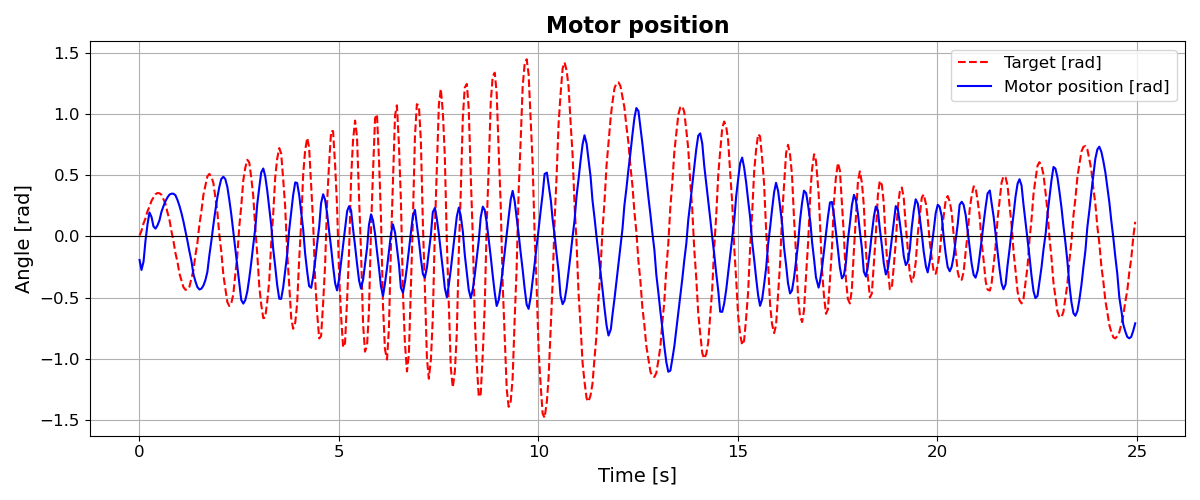
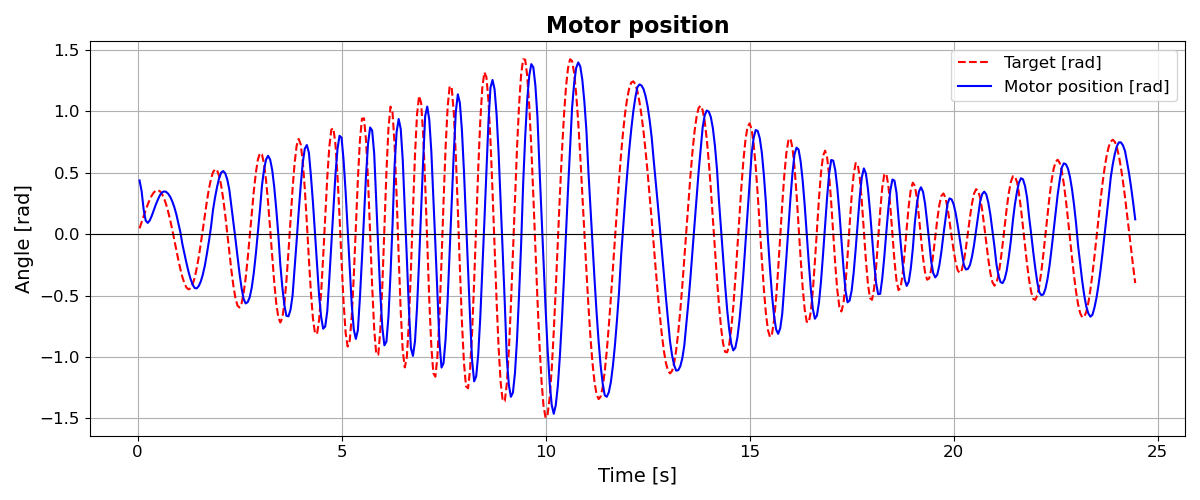
motor position fix and current sensos

diff --git a/src/net/dataset.py b/src/net/dataset.py
@@ -5,6 +5,7 @@ import torch
 from torch.utils.data import Dataset
 from pathlib import Path
 
+# WINDOW: quanti timestep di storia diamo alla GRU
 # a 20Hz, 30 timestep = 1.5 secondi
 WINDOW    = 30
 SAMPLE_HZ = 20.0
@@ -12,9 +13,11 @@ SAMPLE_HZ = 20.0
 
 class FishDataset(Dataset):
     def __init__(self, log_dir: str, window: int = WINDOW):
-        self.sequences = []   # (window, 1)  storia comandi motore
-        self.targets   = []   # (3,)         [sensor_diff, sensor_mean, v_flow]
+        self.sequences = []
+        self.targets   = []
+        self.labels    = []
 
+        # statistiche di normalizzazione (salvate nel checkpoint per runtime)
         self.norm_stats = {}
 
         csv_files = list(Path(log_dir).glob("trial_*.csv"))
@@ -32,80 +35,95 @@ class FishDataset(Dataset):
 
         self.sequences = torch.tensor(np.array(self.sequences), dtype=torch.float32)
         self.targets   = torch.tensor(np.array(self.targets),   dtype=torch.float32)
+        self.labels    = torch.tensor(np.array(self.labels),    dtype=torch.float32)
 
         print(f"Dataset: {len(self)} campioni da {len(csv_files)} trial.")
 
     def _parse_sensor_values(self, series: pd.Series):
+        # converte la colonna sensor_values da stringa "[v1, v2]" a array numpy
         def parse_one(s):
             try:
                 vals = ast.literal_eval(str(s))
-                if len(vals) < 2:
+                if len(vals) < 2:       # lista vuota o incompleta
                     return [0.0, 0.0]
                 return [float(v) for v in vals]
             except Exception:
                 return [0.0, 0.0]
+
         parsed = series.apply(parse_one)
         return np.array(parsed.tolist(), dtype=np.float32)
 
     def _process_episode(self, df: pd.DataFrame, window: int):
-        # input - comando motore
-        cmd = df["tail_target_rad"].values.astype(np.float32)
-
-        # output - sensori
+        # --- sensori ---
         sensors = self._parse_sensor_values(df["sensor_values"])
         sensor_diff = sensors[:, 0] - sensors[:, 1]
-        sensor_mean = (sensors[:, 0] + sensors[:, 1]) / 2.0
+        sensor_mean = (sensors[:, 0] + sensors[:, 1]) / 2.0   
 
-        # calibrazione offset a riposo (primi 50 campioni)
-        offset_diff = sensor_diff[:50].mean()
+        # offset a riposo: media dei primi 50 campioni (come fa master_node)
+        offset = sensor_diff[:50].mean()
+        sensor_diff_cal = sensor_diff - offset
+
+        # offset a riposo anche per la media
         offset_mean = sensor_mean[:50].mean()
-        sensor_diff_cal = sensor_diff - offset_diff
         sensor_mean_cal = sensor_mean - offset_mean
 
-        # v_flow: placeholder a zero finché non c'è il sensore
-        v_flow = np.zeros(len(df), dtype=np.float32)
+        # --- v_flow: usa la corrente del Dynamixel come proxy finché non c'è il sensore di flusso ---
+        # v_flow = np.zeros(len(df), dtype=np.float32)           # placeholder zero
+        # v_flow = df["v_flow"].values.astype(np.float32)        # decommentare quando disponibile
+        v_flow = df["present_current_ma"].values.astype(np.float32)  # proxy: corrente motore
 
-        # normalizzazione per episodio
-        cmd_mean,  cmd_std  = cmd.mean(),             cmd.std()             + 1e-6
-        sd_mean,   sd_std   = sensor_diff_cal.mean(), sensor_diff_cal.std() + 1e-6
-        sm_mean,   sm_std   = sensor_mean_cal.mean(), sensor_mean_cal.std() + 1e-6
-        vf_mean,   vf_std   = v_flow.mean(),          v_flow.std()          + 1e-6
+        # --- ground truth ---
+        cmd_servo = df["tail_target_rad"].values.astype(np.float32)
+        amp_des   = df["tail_amp_rad"].values.astype(np.float32)
+        freq_des  = df["tail_freq_hz"].values.astype(np.float32)
 
-        cmd_n = (cmd             - cmd_mean) / cmd_std
-        sd_n  = (sensor_diff_cal - sd_mean)  / sd_std
-        sm_n  = (sensor_mean_cal - sm_mean)  / sm_std
+        # --- normalizzazione per-episodio ---
+        sd_mean,  sd_std  = sensor_diff_cal.mean(), sensor_diff_cal.std() + 1e-6
+        sm_mean,  sm_std  = sensor_mean_cal.mean(), sensor_mean_cal.std() + 1e-6
+        cmd_mean, cmd_std = cmd_servo.mean(),        cmd_servo.std()       + 1e-6
+        vf_mean,  vf_std  = v_flow.mean(),           v_flow.std()          + 1e-6
+
+        sd_n  = (sensor_diff_cal - sd_mean) / sd_std
+        sm_n  = (sensor_mean_cal - sm_mean) / sm_std
+        cmd_n = (cmd_servo       - cmd_mean) / cmd_std
         vf_n  = (v_flow          - vf_mean)  / vf_std
 
+        # salva le statistiche dell'episodio
         self.norm_stats = {
-            "cmd_mean": float(cmd_mean), "cmd_std": float(cmd_std),
             "sd_mean":  float(sd_mean),  "sd_std":  float(sd_std),
             "sm_mean":  float(sm_mean),  "sm_std":  float(sm_std),
-            "vf_mean":  float(vf_mean),  "vf_std":  float(vf_std),
+            "cmd_mean": float(cmd_mean), "cmd_std": float(cmd_std),
+            "vf_mean":  float(vf_mean),  "vf_std":  float(vf_std),  # proxy: corrente motore
         }
 
-        # finestre scorrevoli
+        # --- finestre scorrevoli ---
         for i in range(window, len(df)):
-            # input: finestra di comandi  =>  (window, 1)
-            seq = cmd_n[i - window:i].reshape(-1, 1)
+            seq = np.stack([
+                sd_n[i - window:i],   # sensor_diff  — deformazione laterale
+                sm_n[i - window:i],   # sensor_mean  — deformazione assiale media
+                vf_n[i - window:i],   # v_flow
+            ], axis=1)                # shape: (window, 3)
 
-            # target: sensori al timestep corrente  =>  (3,)
-            target = np.array([sd_n[i], sm_n[i], vf_n[i]], dtype=np.float32)
+            target = np.array([amp_des[i], freq_des[i]], dtype=np.float32)  # (2,)
+            label  = np.array([cmd_n[i],   vf_n[i]],    dtype=np.float32)   # (2,)
 
             self.sequences.append(seq)
             self.targets.append(target)
+            self.labels.append(label)
 
     def __len__(self):
         return len(self.sequences)
 
     def __getitem__(self, idx):
-        return self.sequences[idx], self.targets[idx]
+        return self.sequences[idx], self.targets[idx], self.labels[idx]
 
 
 if __name__ == '__main__':
     import sys
     log_dir = sys.argv[1] if len(sys.argv) > 1 else "../../logs"
     ds = FishDataset(log_dir)
-    seq, target = ds[0]
-    print(f"seq shape:    {seq.shape}")     # (30, 1)
-    print(f"target shape: {target.shape}")  # (3,)
+    seq, target, label = ds[0]
+    print(f"seq shape:    {seq.shape}")     # (30, 3)
+    print(f"target shape: {target.shape}")  # (2,)
+    print(f"label shape:  {label.shape}")   # (2,)
     print(f"norm_stats:   {ds.norm_stats}")

diff --git a/src/master/master/master_node.py b/src/master/master/master_node.py
@@ -31,14 +31,14 @@ class MasterNode(Node):
         self.declare_parameter('tail_freq_hz', 0.5)
         self.declare_parameter('tail_min_rad', -1.5)
         self.declare_parameter('tail_max_rad', 1.5)
-        self.declare_parameter('control_rate_hz', 50.0)
+        self.declare_parameter('control_rate_hz', 10.0)
         self.declare_parameter('log_rate_hz', 20.0)
         self.declare_parameter('log_dir', 'logs')
 
         # parametri per variazione frequenza/ampiezza
         self.declare_parameter('trial_duration_sec', 20.0)
         self.declare_parameter('freq_min_hz', 0.5)
-        self.declare_parameter('freq_max_hz', 2.0)
+        self.declare_parameter('freq_max_hz', 1.5)
         self.declare_parameter('amp_min_rad', 0.1)
         self.declare_parameter('amp_max_rad', 0.6)
 
@@ -84,7 +84,7 @@ class MasterNode(Node):
         self.create_subscription(Float64, '/aquabot/dynamixel/present_position',
             self.position_callback, 10)
         self.create_subscription(Float64, '/aquabot/dynamixel/present_current',
-            self.current_callback, 10)
+            self.current_callback, 10)  # loggata come present_current_ma; usata come proxy v_flow nel dataset
 
         self.last_sensor = None
         self.last_sensor_time = None
@@ -96,7 +96,9 @@ class MasterNode(Node):
 
         self.srv_trial = self.create_service(SetBool, 'trial', self.trial_callback)
         self.control_timer = self.create_timer(1.0 / self.control_rate, self.control_step)
-        self.log_timer = self.create_timer(1.0 / self.log_rate, self.log_step)
+        # self.log_timer = self.create_timer(1.0 / self.log_rate, self.log_step)
+        self.log_counter = 0
+        self.log_every = max(1, int(round(self.control_rate / self.log_rate)))  # 50/20=2, 50/50=1
 
         self.phase_acc = 0.0
         self.last_control_time = None
@@ -256,12 +258,10 @@ class MasterNode(Node):
         msg.data = float(target)
         self.publisher.publish(msg)
 
-        # if int(t_rel * 4) != int((t_rel - dt) * 4):
-        #     # self.get_logger().info(
-        #     #     f"[control] t={t_rel:.2f}s  target={target:.3f} rad  "
-        #     #     f"amp={self.current_amp:.3f} rad  freq={self.current_freq:.3f} Hz  "
-        #     #     f"bias_offset={self.current_bias_offset:.4f} rad"
-        #     # )
+        self.log_counter += 1
+        if self.log_counter >= self.log_every:
+            self.log_counter = 0
+            self.log_step()
 
     def compute_target(self, t_rel: float, dt: float):
         if self.mode == 'std':
@@ -283,7 +283,7 @@ class MasterNode(Node):
             self.phase_acc += 2.0 * math.pi * freq_t * dt
             bias_offset = self.compute_bias_offset()
             theta = self.bias + bias_offset + amp_t * math.sin(self.phase_acc)
-            return clamp(theta, self.tail_min, self.tail_max)
+            return clamp(theta, self.tail_min, self.tail_max)  
 
         elif self.mode == 'amp_sweep':
             alpha = self.triangular_profile(t_rel, self.trial_duration)

diff --git a/src/aquabot_bringup/launch/system_launch.py b/src/aquabot_bringup/launch/system_launch.py
@@ -12,14 +12,14 @@ def generate_launch_description():
             parameters=[{
                 'sensor_topic': '/sensor_reading',
                 'target_topic': '/aquabot/dynamixel/target_position',
-                'mode': 'turning_combined', # tipo di trial
+                'mode': 'std', # tipo di trial
                 'trial_duration_sec': 20.0, 
                 'tail_bias_rad': 0.0,
                 'tail_amp_rad': 1.2,
                 'tail_freq_hz': 0.5,
                 'tail_min_rad': -1.5,
                 'tail_max_rad': 1.5,
-                'control_rate_hz': 50.0,
+                'control_rate_hz': 20.0,
                 'log_rate_hz': 20.0,
                 'log_dir': './logs',
 
@@ -34,7 +34,7 @@ def generate_launch_description():
                 'amp_min_rad': 0.3,
                 'amp_max_rad': 1.5,
                 'freq_min_hz': 0.5,   
-                'freq_max_hz': 2.0,  
+                'freq_max_hz': 1.5,  
             }]
         ),
         Node(
@@ -50,8 +50,8 @@ def generate_launch_description():
                 'protocol_version': 2.0,
                 'tail_min_rad': -1.5, 
                 'tail_max_rad': 1.5,
-                'profile_velocity': 125, 
-                'profile_acceleration':125,
+                'profile_velocity': 500, 
+                'profile_acceleration':400,
             }]
         ),
         Node(

diff --git a/src/dynamixel_controller/dynamixel_controller/dynamixel_controller_node.py b/src/dynamixel_controller/dynamixel_controller/dynamixel_controller_node.py
@@ -112,7 +112,7 @@ class DynamixelController(Node):
         self.pub_current = self.create_publisher(Float64, '/aquabot/dynamixel/present_current', 10)
         # timer di lettura
         self.read_timer = self.create_timer(1.0 / 20.0, self.read_motor_state)
-    
+        
     def read_motor_state(self):
         # leggi posizione
         pos_tick, result, error = self.packet_handler.read4ByteTxRx(

diff --git a/src/plots.py b/src/plots.py
@@ -146,9 +146,9 @@ def plot_combined_sweep(csv_path):
     plt.show()
 
 
-CSV = 'logs/trial_20260429_140940.csv'
+CSV = 'logs/trial_20260511_113913.csv'
 
 plot_motor(CSV)
-plot_tail_amplitude(CSV)
-plot_sensors(CSV)
-plot_combined_sweep(CSV)   # usare con trial combined_sweep
+# plot_tail_amplitude(CSV)
+# plot_sensors(CSV)
+# plot_combined_sweep(CSV)   # usare con trial combined_sweep
